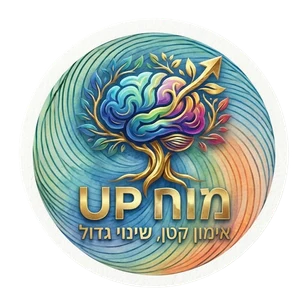
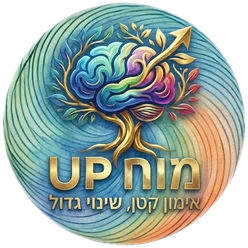
דף הבית נושם: בלי כרטיסים, בלי התמונה ובלי קישור לאודות מתחתיה
הסמל והשם במרכז על רקע של כתמי צבעי מים רכים, והתחומים כעיגולים צפים
בגל (בלי קו מתחת לכותרות). התמונה רק בדף אודות. הסמל והאייקונים בלי
הרקע הלבן סביבם. בדפים הפנימיים בלי מלבנים לבנים: טקסט על הרקע, ותמונות
מעוגלות עם צל רך. קישור "ניהול" בתפריט רק במכשיר שנכנס לניהול.
תנועה עדינה, וכלום למי שביקש פחות תנועה.

Claude-Session: https://claude.ai/code/session_01BDkU3cUZLBtuGa5TKA5z9B

diff --git a/public/site.css b/public/site.css
@@ -1,9 +1,15 @@
 /* האתר האישי של ד״ר יעל שדה, לפי העיצוב ב-Canva: רקע אפור-תכלת בהיר, כרטיסים לבנים מעוגלים,
    טקסט סגול עמוק, סמלים עגולים בצבעי מים, ומספר הטלפון בכתב יד. */
-:root{--ink:#3d2453;--purple:#4b1d64;--muted:#6c5a7c;--bg:#eceff3;--card:#fff;--line:#e2dde8;--teal:#466f6d;--radius:22px}
+:root{--ink:#3d2453;--purple:#4b1d64;--muted:#6c5a7c;--bg:#f4f4f7;--card:#fff;--line:#e2dde8;--teal:#466f6d;--radius:22px}
 *{box-sizing:border-box}
 html{scroll-behavior:smooth}
 body{margin:0;font-family:Assistant,system-ui,sans-serif;font-size:18px;line-height:1.75;color:var(--ink);background:var(--bg)}
+/* רקע נושם: כתמי צבעי מים רכים, קבועים במקום */
+body::before{content:"";position:fixed;inset:0;z-index:-2;pointer-events:none;
+  background:radial-gradient(38vmax 30vmax at 92% 6%,rgba(120,196,186,.28),transparent 70%),
+    radial-gradient(34vmax 30vmax at 4% 30%,rgba(206,170,226,.26),transparent 70%),
+    radial-gradient(40vmax 30vmax at 70% 96%,rgba(246,200,150,.24),transparent 70%),
+    radial-gradient(30vmax 26vmax at 18% 92%,rgba(140,190,230,.20),transparent 70%)}
 a{color:var(--purple)}
 /* כותרות ב-Fredoka (31/10/2026: "עם Fredoka לכותרות"), גוף הטקסט ב-Assistant */
 h1,h2,h3,.brand,.motto,.card b,.pill,.invite .inv-t{font-family:Fredoka,Assistant,sans-serif}
@@ -15,46 +21,60 @@ h3{font-size:1.1rem;font-weight:600}
 .skip{position:absolute;inset-inline-start:-999px}.skip:focus{inset-inline-start:12px;top:12px;background:#fff;padding:6px 12px;z-index:9}
 
 /* סרגל עליון */
-.top{position:sticky;top:0;z-index:5;background:rgba(236,239,243,.94);backdrop-filter:blur(8px);border-bottom:1px solid rgba(75,29,100,.08)}
+.top{position:sticky;top:0;z-index:5;background:rgba(244,244,247,.82);backdrop-filter:blur(8px);border-bottom:1px solid rgba(75,29,100,.08)}
 .top .wrap{display:flex;align-items:center;gap:18px;min-height:64px}
 .brand{display:flex;align-items:center;gap:10px;color:var(--purple);text-decoration:none;white-space:nowrap;font-weight:400;font-size:1.3rem;line-height:1.3}
-.brand img{width:38px;height:38px;border-radius:50%}
+.brand img{width:40px;height:auto}
 .brand small{display:block;font-weight:600;font-size:.72rem}
 nav.main{display:flex;gap:2px;flex-wrap:wrap;margin-inline-start:auto}
 nav.main a{text-decoration:none;color:var(--ink);font-weight:600;font-size:.95rem;padding:6px 13px;border-radius:999px}
 nav.main a:hover{background:#fff}
 nav.main a[aria-current]{background:#fff;color:var(--purple);box-shadow:0 1px 3px rgba(75,29,100,.08)}
+nav.main a.adm{color:var(--muted);font-weight:400}
 .menu-btn{display:none;margin-inline-start:auto;background:#fff;border:0;border-radius:999px;padding:7px 15px;font:inherit;font-size:.95rem;font-weight:600;color:var(--purple);cursor:pointer}
 
 main:focus{outline:none}
 main{position:relative;z-index:0;overflow-x:clip;padding:40px 24px 64px;min-height:60vh}
 
-/* דף הבית: עמודת השם מימין, כרטיסי התחומים משמאל */
-.home{display:grid;grid-template-columns:260px 1fr;gap:34px;align-items:center}
-.who{display:flex;flex-direction:column;align-items:center;text-align:center;gap:12px}
-.who h1{font-size:clamp(2.2rem,4vw,2.9rem);margin:0}
-.motto{font-weight:600;color:var(--purple);font-size:1.15rem;margin:-6px 0 4px;word-spacing:.15em}
-.who .logo{width:150px;height:150px;border-radius:50%;background:#fff;padding:4px;box-shadow:0 2px 10px rgba(75,29,100,.08)}
-.who .portrait{width:136px;height:136px;object-fit:cover;border-radius:18px}
-.pill{display:inline-block;background:#fff;color:var(--purple);text-decoration:none;padding:7px 46px;border-radius:14px;font-weight:600;box-shadow:0 1px 4px rgba(75,29,100,.08)}
-.pill:hover{box-shadow:0 4px 14px rgba(75,29,100,.14)}
-.hand{font-family:"Gochi Hand",Assistant,cursive;font-size:1.65rem;letter-spacing:.12em;color:var(--purple);text-decoration:none;line-height:1.2;margin-top:10px}
-.mail{color:var(--purple);text-decoration:none;font-size:1.15rem;line-height:1.2}
-.cards{display:grid;grid-template-columns:repeat(auto-fit,minmax(250px,1fr));gap:20px}
-.card{display:flex;flex-direction:column;align-items:center;text-align:center;gap:2px;background:var(--card);border-radius:var(--radius);padding:22px 22px 26px;text-decoration:none;color:var(--ink);transition:box-shadow .2s,transform .2s}
-.card img{width:136px;height:136px;border-radius:50%;margin-bottom:12px}
-.card b{color:var(--purple);font-weight:600;font-size:1.3rem;text-decoration:underline;text-underline-offset:5px;text-decoration-thickness:2px;margin-bottom:8px;line-height:1.35}
-.card span{font-size:1.05rem;line-height:1.55}
-.card:hover{box-shadow:0 10px 26px rgba(75,29,100,.12);transform:translateY(-3px)}
+/* דף הבית: בלי כרטיסים. הסמל והשם במרכז, והתחומים כעיגולים צפים בגל */
+.hero{position:relative;text-align:center;padding:10px 0 26px}
+.hero .logo{width:170px;height:auto;display:block;margin:0 auto 10px;animation:float 9s ease-in-out infinite}
+.hero h1{font-size:clamp(2.6rem,6vw,4.2rem);margin:0;letter-spacing:.01em}
+.motto{font-weight:600;color:var(--purple);font-size:clamp(1.1rem,2.4vw,1.4rem);margin:4px 0 0;word-spacing:.25em;opacity:.85}
+.tagline{max-width:36em;margin:12px auto 0;color:var(--muted);font-size:1.15rem}
+.blob{position:absolute;z-index:-1;border-radius:50%;filter:blur(30px);opacity:.55;pointer-events:none;animation:drift 18s ease-in-out infinite alternate}
+.blob.b1{width:260px;height:220px;background:#a9dcd3;top:0;inset-inline-start:12%}
+.blob.b2{width:240px;height:240px;background:#e3c6ef;top:40px;inset-inline-end:10%;animation-delay:-6s}
+.blob.b3{width:200px;height:170px;background:#f8d9a8;top:150px;inset-inline-start:42%;animation-delay:-12s}
+
+.areas{display:flex;justify-content:center;align-items:flex-start;gap:clamp(18px,5vw,70px);flex-wrap:wrap;padding:30px 0 10px}
+.area{flex:0 1 260px;display:flex;flex-direction:column;align-items:center;text-align:center;text-decoration:none;color:var(--ink);
+  opacity:0;animation:rise .9s cubic-bezier(.2,.7,.2,1) forwards;animation-delay:calc(var(--i) * .15s + .1s)}
+.area:nth-child(3n+2){margin-top:70px}
+.orb{position:relative;width:190px;height:190px;display:grid;place-items:center;margin-bottom:16px}
+.orb::before{content:"";position:absolute;inset:-14px;border-radius:50%;background:radial-gradient(circle,var(--halo) 0%,transparent 68%);opacity:.55;transition:opacity .35s,transform .35s}
+.orb img{position:relative;width:100%;height:100%;object-fit:contain;animation:float 7s ease-in-out infinite;animation-delay:calc(var(--i) * -2.3s);transition:transform .35s}
+.area.c0{--halo:#8fd0c4}.area.c1{--halo:#e3b8ef}.area.c2{--halo:#f6cf8e}
+.area b{font-family:Fredoka,Assistant,sans-serif;font-weight:600;color:var(--purple);font-size:1.38rem;line-height:1.3;margin-bottom:6px}
+.area .sum{display:flex;flex-direction:column;font-size:1.04rem;line-height:1.55;color:var(--muted)}
+.area:hover .orb img,.area:focus-visible .orb img{transform:scale(1.07) rotate(-3deg)}
+.area:hover .orb::before,.area:focus-visible .orb::before{opacity:.95;transform:scale(1.12)}
+.reach{display:flex;flex-wrap:wrap;justify-content:center;align-items:baseline;gap:6px 26px;margin:44px 0 0}
+.hand{font-family:"Gochi Hand",Assistant,cursive;font-size:1.7rem;letter-spacing:.12em;color:var(--purple);text-decoration:none}
+.mail{color:var(--purple);text-decoration:none;font-size:1.12rem}
+@keyframes float{0%,100%{transform:translateY(0)}50%{transform:translateY(-10px)}}
+@keyframes drift{from{transform:translate(0,0) scale(1)}to{transform:translate(30px,-20px) scale(1.12)}}
+@keyframes rise{from{opacity:0;transform:translateY(24px)}to{opacity:1;transform:none}}
 
 /* כותרת דף */
 .page-head{display:flex;align-items:center;gap:18px;margin-bottom:26px}
 .page-head h1{margin:0}
 .page-head .sub{margin:4px 0 0;font-size:1.2rem;color:var(--muted)}
-.head-icon,.head-photo{width:96px;height:96px;border-radius:50%;flex:none;background:#fff;box-shadow:0 2px 10px rgba(75,29,100,.08)}
+.head-icon{width:96px;height:96px;flex:none;object-fit:contain}
+.head-photo{width:96px;height:96px;border-radius:50%;flex:none;box-shadow:0 0 0 4px rgba(255,255,255,.8)}
 .head-photo{object-fit:cover}
 
-.intro{background:var(--card);border-radius:var(--radius);padding:24px 30px;margin-bottom:22px;font-size:1.08rem}
+.intro{max-width:52em;margin:0 0 30px;font-size:1.16rem;line-height:1.8}
 .rich p,.rich li{text-align:justify}
 .rich p{margin:0 0 .8em}
 .rich p:last-child{margin-bottom:0}
@@ -65,12 +85,16 @@ main{position:relative;z-index:0;overflow-x:clip;padding:40px 24px 64px;min-heig
 
 /* חומרים בדף: רשת של שתי עמודות; פריט "חצי רוחב" תופס עמודה אחת */
 .items{display:grid;grid-template-columns:1fr 1fr;gap:20px;align-items:start}
-.item{grid-column:1/-1;background:var(--card);border-radius:var(--radius);padding:24px 30px;margin:0}
+.item{grid-column:1/-1;position:relative;margin:0;padding:4px 0}
+.items{row-gap:44px;column-gap:48px}
+.it-text>h2::before,.it-link>h2::before,.it-file>h2::before,.it-video>h2::before{content:"";display:inline-block;width:.6em;height:.6em;border-radius:50%;margin-inline-end:.45em;vertical-align:.08em;background:radial-gradient(circle at 35% 35%,#bfe6de,#7ab8ae 70%)}
+.it-link>h2::before{background:radial-gradient(circle at 35% 35%,#f8e0b3,#e2a95a 70%)}
+.it-file>h2::before{background:radial-gradient(circle at 35% 35%,#ecd3f4,#b48ac9 70%)}
 .item.half{grid-column:auto}
-figure.item{padding:16px;margin:0}
-figure.item img{display:block;width:100%;height:auto;border-radius:14px}
-figure.item h2{padding:6px 10px 2px}
-figure.item figcaption{padding:12px 10px 4px;font-size:.98rem}
+figure.item{padding:0;margin:0}
+figure.item img{display:block;width:100%;height:auto;border-radius:26px;box-shadow:0 14px 34px -18px rgba(75,29,100,.35)}
+figure.item h2{padding:0 0 4px}
+figure.item figcaption{padding:14px 4px 0;font-size:1rem}
 figure.item:not(.long) figcaption p{text-align:center}
 figure.item.long:not(.half){display:grid;grid-template-columns:minmax(0,1fr) minmax(0,1.3fr);gap:6px 22px;align-items:start}
 figure.item.long:not(.half) h2{grid-column:1/-1}
@@ -107,7 +131,7 @@ footer.foot a{color:var(--muted)}
 footer.foot .fill{flex:1}
 
 @media screen and (max-width:900px){
-  .home{grid-template-columns:1fr}
+  .area:nth-child(3n+2){margin-top:0}
 }
 @media screen and (max-width:760px){
   body{font-size:17px}
@@ -119,15 +143,22 @@ footer.foot .fill{flex:1}
   .items{grid-template-columns:1fr}
   .item.half{grid-column:1/-1}
   figure.item.long:not(.half){display:block}
-  .item,.intro{padding:20px}
+  .items{row-gap:34px}
   .head-icon,.head-photo{width:64px;height:64px}
+  .hero .logo{width:130px}
+  .orb{width:150px;height:150px}
   .rich p,.rich li{text-align:start}
 }
-@media (prefers-reduced-motion:reduce){*{transition:none!important;scroll-behavior:auto!important}}
+@media (prefers-reduced-motion:reduce){*{transition:none!important;scroll-behavior:auto!important;animation:none!important}.area{opacity:1}}
 @media print{
   @page{size:A4;margin:24mm 24mm}
   .top,.menu-btn{display:none}
   body{background:#fff}
-  .item,.card,.intro{break-inside:avoid;box-shadow:none;border:1px solid var(--line)}
+  body::before,.blob{display:none}
+  .area{opacity:1;animation:none}
+  .item,.intro{break-inside:avoid;box-shadow:none;border:1px solid var(--line);backdrop-filter:none}
   h1,h2{break-after:avoid}
 }
+
+/* בדף הבית הטלפון והמייל כבר מופיעים מעל התחתית */
+body.is-home footer.foot a{display:none}

diff --git a/public/site.js b/public/site.js
@@ -98,20 +98,22 @@
     var about = pages.filter(function (p) { return p.id === 'about'; })[0];
     var html = '';
     if (page.home) {
-      html += '<div class="home"><aside class="who">' +
-        '<h1>' + esc(b.name) + '</h1>' + (b.title ? '<p class="motto">' + esc(b.title) + '</p>' : '') +
+      // דף הבית (31/10/2026: "משהו דינאמי ונושם יותר"): בלי כרטיסים ובלי התמונה; הסמל, השם, והתחומים כעיגולים צפים בגל
+      var areas = pages.filter(function (p) { return !p.home && p !== about; });
+      html += '<section class="hero"><span class="blob b1"></span><span class="blob b2"></span><span class="blob b3"></span>' +
         (b.logo ? '<img class="logo" src="' + esc(fileUrl(b.logo)) + '" alt="">' : '') +
-        (b.photo ? '<img class="portrait" src="' + esc(fileUrl(b.photo)) + '" alt="' + esc(b.name) + '">' : '') +
-        (about ? '<a class="pill" href="#/' + esc(about.id) + '">' + esc(about.nav || about.title) + '</a>' : '') +
-        (b.phone ? '<a class="hand" href="tel:' + phoneDigits(b.phone) + '" dir="ltr">' + esc(b.phone) + '</a>' : '') +
-        (b.email ? '<a class="mail" href="mailto:' + esc(b.email) + '" dir="ltr">' + esc(b.email) + '</a>' : '') +
-        '</aside><section class="cards">' + pages.filter(function (p) { return !p.home && p !== about; }).map(function (p) {
-          var sum = String(p.summary || p.sub || '').split('\n').filter(Boolean).map(function (l) { return '<span>' + esc(l) + '</span>'; }).join('');
-          return '<a class="card" href="#/' + esc(p.id) + '">' + (p.icon ? '<img src="' + esc(fileUrl(p.icon)) + '" alt="">' : '') +
-            '<b>' + esc(p.nav || p.title) + '</b>' + sum + (p.hidden ? '<span class="draft-tag">דף מוסתר</span>' : '') + '</a>';
-        }).join('') + '</section></div>';
+        '<h1>' + esc(b.name) + '</h1>' + (b.title ? '<p class="motto">' + esc(b.title) + '</p>' : '') +
+        (b.tagline ? '<p class="tagline">' + esc(b.tagline) + '</p>' : '') + '</section>';
+      html += '<section class="areas">' + areas.map(function (p, i) {
+        var sum = String(p.summary || p.sub || '').split('\n').filter(Boolean).map(function (l) { return '<span>' + esc(l) + '</span>'; }).join('');
+        return '<a class="area c' + (i % 3) + '" style="--i:' + i + '" href="#/' + esc(p.id) + '">' +
+          '<span class="orb">' + (p.icon ? '<img src="' + esc(fileUrl(p.icon)) + '" alt="">' : '') + '</span>' +
+          '<b>' + esc(p.nav || p.title) + '</b><span class="sum">' + sum + '</span>' + (p.hidden ? '<span class="draft-tag">דף מוסתר</span>' : '') + '</a>';
+      }).join('') + '</section>';
       if (page.intro) html += '<section class="intro rich">' + rich(page.intro) + '</section>';
       if (items.length) html += '<div class="items">' + items.map(function (it) { return item(it, opt); }).join('') + '</div>';
+      html += '<p class="reach">' + (b.phone ? '<a class="hand" href="tel:' + phoneDigits(b.phone) + '" dir="ltr">' + esc(b.phone) + '</a>' : '') +
+        (b.email ? '<a class="mail" href="mailto:' + esc(b.email) + '" dir="ltr">' + esc(b.email) + '</a>' : '') + '</p>';
       return html;
     }
     var pic = page.id === 'about' && b.photo ? '<img class="head-photo" src="' + esc(fileUrl(b.photo)) + '" alt="">' : '';

diff --git a/public/index.html b/public/index.html
@@ -30,6 +30,11 @@
 (function () {
   var site = window.YS_DEFAULT;
   var $ = function (id) { return document.getElementById(id); };
+  // קישור לניהול רק במכשיר שנכנס לניהול (31/10/2026: "הקישור לניהול יהיה מתוך התפריט ורק אני אראה אותו")
+  var adminLink = function () {
+    var t = ''; try { t = localStorage.getItem('ys.admin.token') || sessionStorage.getItem('ys.admin.token') || ''; } catch (e) {}
+    return t ? '<a class="adm" href="/admin">⚙ ניהול</a>' : '';
+  };
   var current = function () { return decodeURIComponent((location.hash.match(/^#\/([\w-]+)/) || [])[1] || ''); };
 
   function draw(scroll) {
@@ -38,7 +43,8 @@
     var page = pages.filter(function (p) { return p.id === id; })[0] || pages.filter(function (p) { return p.home; })[0] || pages[0];
     $('brand').innerHTML = (b.logo ? '<img src="' + YS.esc(YS.fileUrl(b.logo)) + '" alt="">' : '') + '<span>' + YS.esc(b.name) + '<small>' + YS.esc(b.title) + '</small></span>';
     $('main').className = 'wrap pg-' + (page ? page.id : '');
-    $('nav').innerHTML = YS.nav(site, page && page.id);
+    document.body.classList.toggle('is-home', !!(page && page.home));
+    $('nav').innerHTML = YS.nav(site, page && page.id) + adminLink();
     $('main').innerHTML = YS.renderPage(site, page && page.id);
     $('foot').innerHTML = '<span>' + YS.esc(b.footer || '') + '</span><span class="fill"></span>' +
       (b.email ? '<a href="mailto:' + YS.esc(b.email) + '" dir="ltr">' + YS.esc(b.email) + '</a>' : '') +
